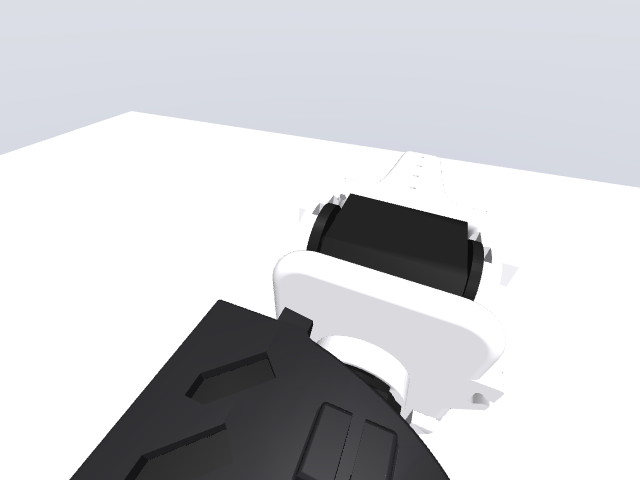
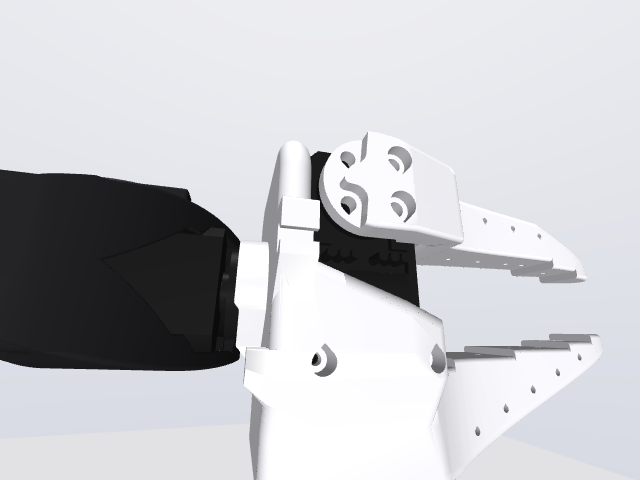
platform: multi-joint action chart, wrist cam on the gripper, no-cache dashboard
- dashboard: ACTION chart now plots all 6 joints (colored lines + legend) instead of
  just action[0]; cameras already render as separate labelled rows (up/side/wrist)
- wrist camera repositioned onto the gripper, offset to clear the central motor and
  aimed at the jaws/grasp region (was occluded/wrong-facing)
- ingest serves dashboard.html with Cache-Control: no-store (fixes stale-dashboard)

diff --git a/web/dashboard.html b/web/dashboard.html
@@ -119,6 +119,29 @@ function filmstrips(frames){
     </div>`).join("");
 }
 
+const JOINTS = ["shoulder_pan","shoulder_lift","elbow_flex","wrist_flex","wrist_roll","gripper"];
+const JCOLORS = ["#5b9cf6","#38d39f","#f5b54a","#ff6b6b","#b083f0","#e07bb0"];
+
+// multi-line chart: several series on one set of axes (e.g. all joint actions)
+function multiLineCard(title, series, labels, colors){
+  const all = series.flat().filter(v=>v!=null);
+  if(!all.length) return `<div class="card"><h3>${title}</h3><svg></svg></div>`;
+  const lo=Math.min(...all), hi=Math.max(...all), W=300,H=72,pad=4;
+  const n=Math.max(...series.map(s=>s.length));
+  const sx=i=>pad+(W-2*pad)*(n<2?0:i/(n-1));
+  const sy=v=>{const d=hi-lo||1; return H-pad-(H-2*pad)*((v-lo)/d);};
+  const paths = series.map((vals,si)=>{
+    let d="",started=false;
+    vals.forEach((v,i)=>{ if(v==null)return; d+=(started?"L":"M")+sx(i).toFixed(1)+" "+sy(v).toFixed(1)+" "; started=true;});
+    return `<path d="${d}" fill="none" stroke="${colors[si%colors.length]}" stroke-width="1.3"/>`;
+  }).join("");
+  const legend = labels.map((l,i)=>`<span style="color:${colors[i%colors.length]}">●</span>${l}`).join("&nbsp;&nbsp;");
+  return `<div class="card"><h3>${title}<span class="now"></span></h3>
+    <svg viewBox="0 0 ${W} ${H}" preserveAspectRatio="none">${paths}</svg>
+    <div class="rng"><span>min ${fmt(lo,1)}</span><span>max ${fmt(hi,1)}</span></div>
+    <div class="legend" style="margin-top:5px">${legend}</div></div>`;
+}
+
 async function render(){
   if(!sel) return;
   const [detail, stepsR] = await Promise.all([
@@ -127,9 +150,10 @@ async function render(){
   ]);
   const run = detail.run, steps = stepsR.steps||[], frames = detail.frames||[];
   if(!run){ document.getElementById("main").innerHTML=`<div class="empty">run not found</div>`; return; }
-  const col = k => steps.map(s=> k==="action[0]" ? (s.action?s.action[0]:null) : s[k]);
-  const charts = ["smd","rnd","ace","latency_ms","action[0]"]
-    .map(k=>chartCard(k, col(k), C[k])).join("");
+  const col = k => steps.map(s=> s[k]);
+  const baseCharts = ["smd","rnd","ace","latency_ms"].map(k=>chartCard(k, col(k), C[k])).join("");
+  const actSeries = JOINTS.map((_,j)=> steps.map(s=> (s.action && s.action.length>j) ? s.action[j] : null));
+  const charts = baseCharts + multiLineCard("action · joints (deg)", actSeries, JOINTS, JCOLORS);
   const film = filmstrips(frames);
   document.getElementById("main").innerHTML = `
     <div class="head">

diff --git a/ingest/app.py b/ingest/app.py
@@ -34,7 +34,7 @@ app.mount("/blobs", StaticFiles(directory=str(BLOB_DIR)), name="blobs")
 def index():
     page = WEB_DIR / "dashboard.html"
     if page.exists():
-        return FileResponse(str(page))
+        return FileResponse(str(page), headers={"Cache-Control": "no-store"})
     return {"ok": True, "hint": "dashboard.html not built yet"}
 
 
